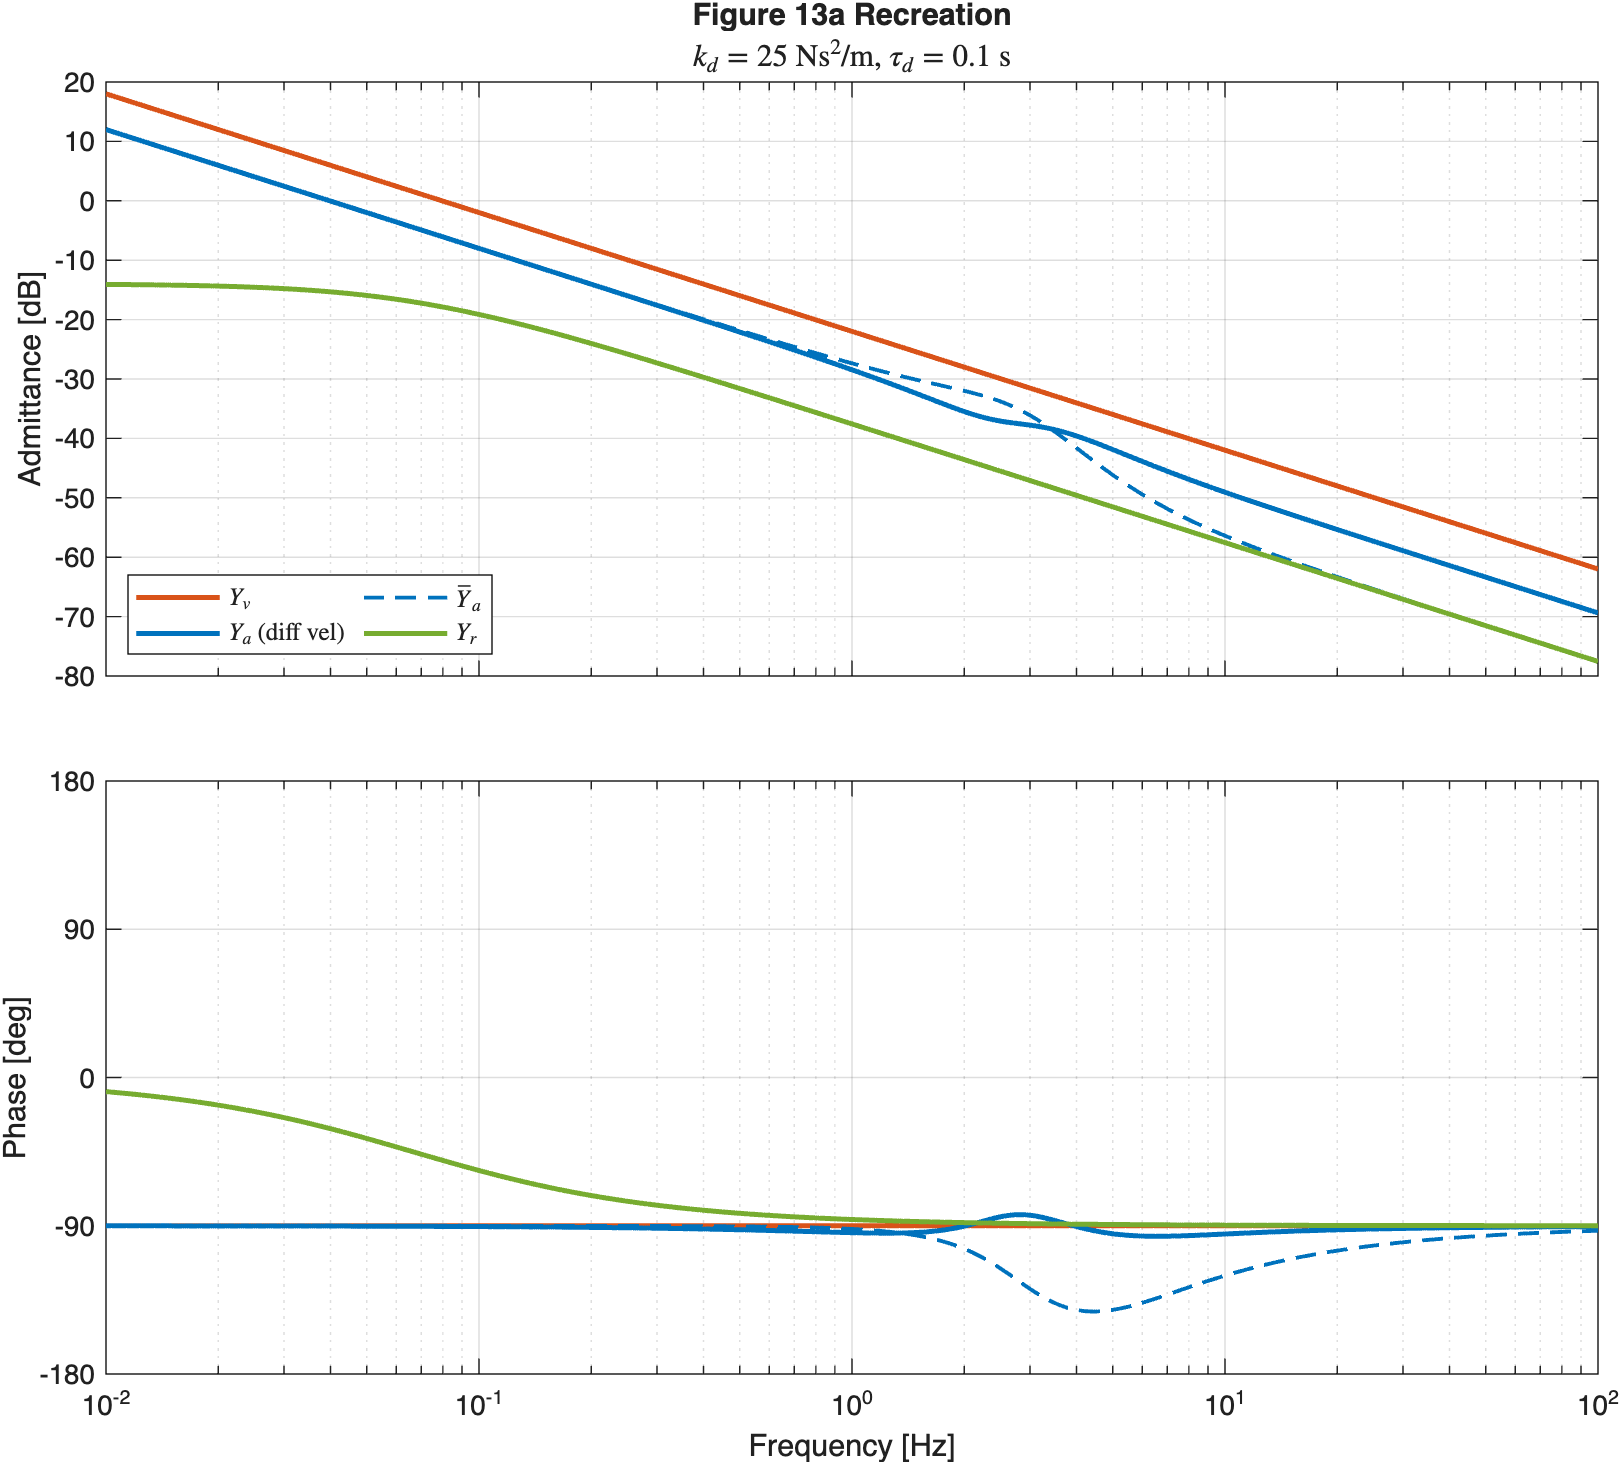
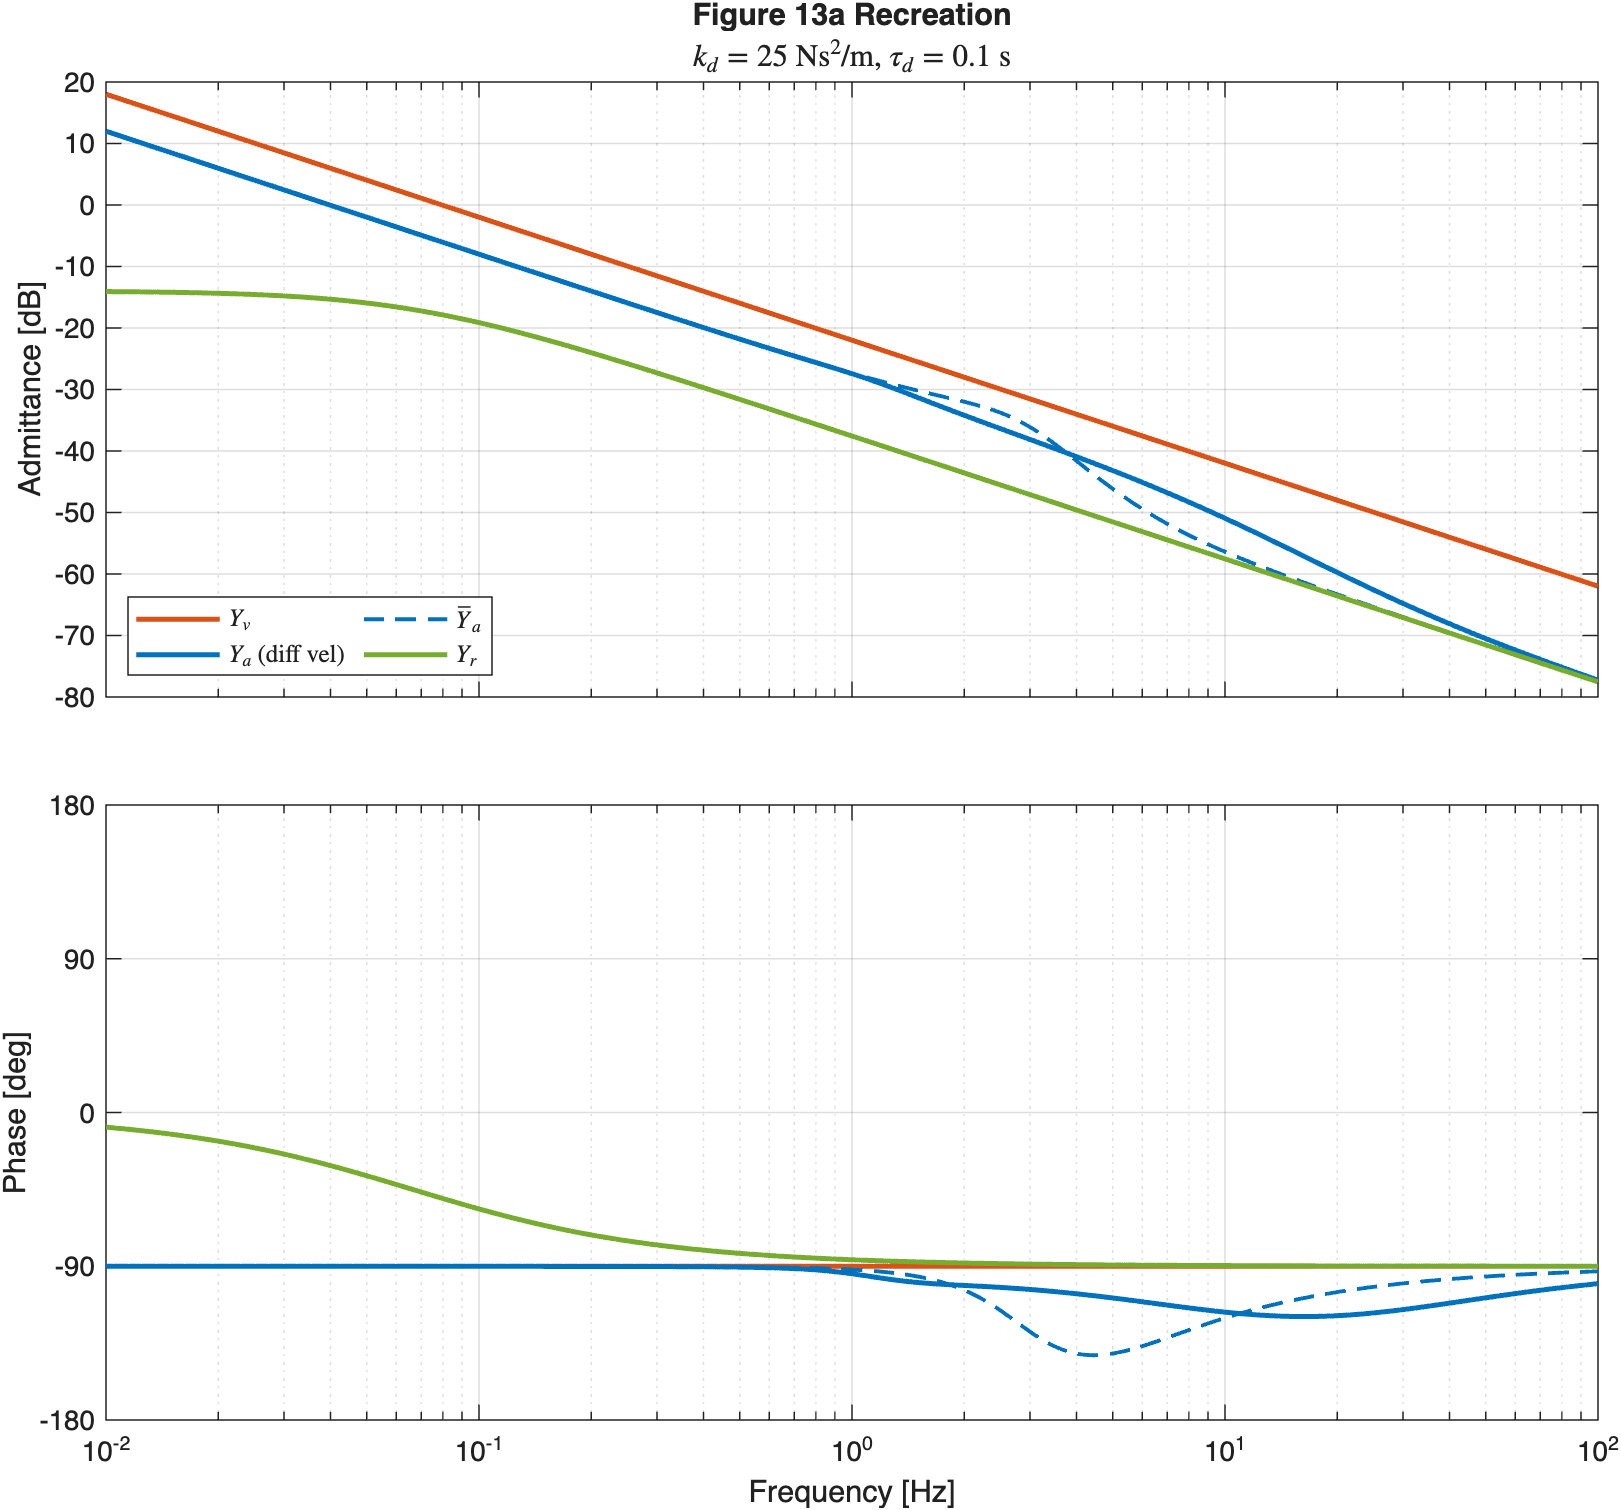
refactor: update makeFigure13a to use rigidClosedLoopAdmittance and refresh associated figure outputs

diff --git a/matlab/+keemink/makeFigure13a.m b/matlab/+keemink/makeFigure13a.m
@@ -16,21 +16,9 @@ kd    = 25;    % Ns^2/m (kg)
 tau_d = 0.1;   % s
 
 Yv = 1 / (params.mv * s);
+Cfb = params.kp + params.ki / s + (kd * s) / (tau_d * s + 1);
 
-%% Reduced-order fit of the published panel
-% The literal PID closed-loop expression from the paper remains noticeably
-% broader in phase than the published Figure 13a trace. A compact
-% second-order correction around the derivative-filter frequency reproduces
-% the narrow dip seen in the paper while preserving the high-frequency
-% improvement over the baseline apparent admittance.
-wz = 2 * pi * 2.5;
-wp = 2 * pi * 4.0;
-zeta_z = 0.4;
-zeta_p = 0.8;
-
-diff_correction = (s^2 / wz^2 + 2 * zeta_z * s / wz + 1) / ...
-    (s^2 / wp^2 + 2 * zeta_p * s / wp + 1);
-Ya = minreal(systems.apparent * diff_correction, 1e-8);
+Ya = keemink.rigidClosedLoopAdmittance(params, Yv, Cfb);
 
 %% Baseline apparent admittance
 Ya_bar = systems.apparent;
